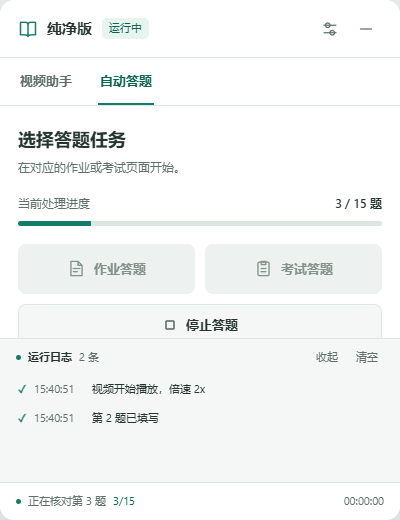
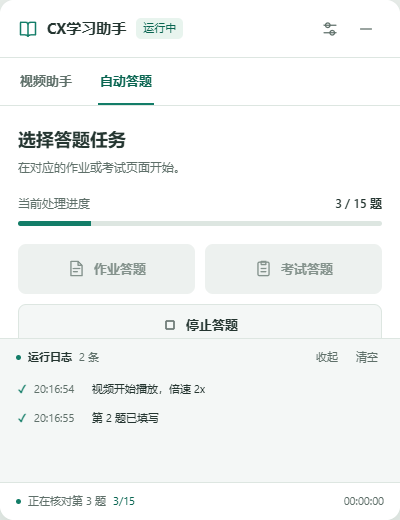
Rename to CX study assistant and harden task action boundaries

Changed region(s): [[0.12, 0.0308, 0.45, 0.0923], [0.09, 0.8, 0.15, 0.8308], [0.09, 0.7385, 0.15, 0.7692]]

diff --git a/chaoxing-pure.user.js b/chaoxing-pure.user.js
@@ -1,7 +1,7 @@
 // ==UserScript==
-// @name         纯净版
+// @name         CX学习助手
 // @namespace    local:chaoxing-deepseek-pure
-// @version      1.0.4
+// @version      1.0.5
 // @updateURL    https://raw.githubusercontent.com/mzxuan08/chaoxing-pure/main/chaoxing-pure.user.js
 // @downloadURL  https://raw.githubusercontent.com/mzxuan08/chaoxing-pure/main/chaoxing-pure.user.js
 // @description  视频助手与 DeepSeek V4.1 Flash 答题；本地个人配置
@@ -40,7 +40,7 @@
 // ==/UserScript==
 
 /*
- * 本地纯净版 1.0.4，2026-10-08。
+ * 本地CX学习助手 1.0.5，2026-10-08。
  * 所有答题请求直接发往 DeepSeek 官方 API，使用用户个人账户。
  * 公开版不包含个人 API 凭据；首次使用请通过脚本管理器菜单配置。
  */
@@ -48,7 +48,7 @@
 (() => {
   'use strict';
 
-  const SCRIPT_VERSION = '1.0.4';
+  const SCRIPT_VERSION = '1.0.5';
 
   const CXUtils = {
     safeJSONParse(value, fallback = null) {
@@ -211,7 +211,7 @@
       const iframe = document.createElement('iframe');
       iframe.id = 'cx-helper-iframe';
       iframe.setAttribute('frameborder', '0');
-      iframe.setAttribute('title', '纯净版助手');
+      iframe.setAttribute('title', 'CX学习助手');
       iframe.setAttribute('allowtransparency', 'true');
       Object.assign(iframe.style, {
         position: 'fixed',
@@ -602,14 +602,14 @@
     _buildHTML() {
       return `<!DOCTYPE html><html lang="zh-CN"><head><meta charset="utf-8"><meta name="viewport" content="width=device-width,initial-scale=1"><style>${this._buildCSS()}</style></head><body>
         <!-- 最小化悬浮图标 -->
-        <div class="cx-mini" id="cx-mini" role="button" tabindex="0" aria-label="恢复纯净版面板">
+        <div class="cx-mini" id="cx-mini" role="button" tabindex="0" aria-label="恢复CX学习助手面板">
           <div class="cx-mini-icon"><svg class="cx-icon" viewBox="0 0 24 24" fill="none" stroke="currentColor" stroke-width="1.7" stroke-linecap="round" stroke-linejoin="round" aria-hidden="true"><path d="M3 4h6a3 3 0 0 1 3 3v14a4 4 0 0 0-4-2H3zM21 4h-6a3 3 0 0 0-3 3v14a4 4 0 0 1 4-2h5z"/></svg></div>
         </div>
         <!-- 主面板 -->
         <div class="cx-panel cx-log-collapsed" id="cx-panel">
           <!-- 标题栏 -->
           <div class="cx-header" id="cx-header">
-            <span class="cx-header-title"><svg class="cx-icon" viewBox="0 0 24 24" fill="none" stroke="currentColor" stroke-width="1.7" stroke-linecap="round" stroke-linejoin="round" aria-hidden="true"><path d="M3 4h6a3 3 0 0 1 3 3v14a4 4 0 0 0-4-2H3zM21 4h-6a3 3 0 0 0-3 3v14a4 4 0 0 1 4-2h5z"/></svg><span>纯净版</span></span><span class="cx-run-badge" id="cx-run-badge">待机</span>
+            <span class="cx-header-title"><svg class="cx-icon" viewBox="0 0 24 24" fill="none" stroke="currentColor" stroke-width="1.7" stroke-linecap="round" stroke-linejoin="round" aria-hidden="true"><path d="M3 4h6a3 3 0 0 1 3 3v14a4 4 0 0 0-4-2H3zM21 4h-6a3 3 0 0 0-3 3v14a4 4 0 0 1 4-2h5z"/></svg><span>CX学习助手</span></span><span class="cx-run-badge" id="cx-run-badge">待机</span>
             <div class="cx-header-tools">
               <button type="button" class="cx-tool-btn" id="cx-btn-settings" title="设置" aria-label="设置"><svg class="cx-icon" viewBox="0 0 24 24" fill="none" stroke="currentColor" stroke-width="1.7" stroke-linecap="round" stroke-linejoin="round" aria-hidden="true"><path d="M4 7h16M4 17h16"/><circle cx="9" cy="7" r="3"/><circle cx="15" cy="17" r="3"/></svg></button>
               <button type="button" class="cx-tool-btn" id="cx-btn-minimize" title="最小化" aria-label="最小化"><svg class="cx-icon" viewBox="0 0 24 24" fill="none" stroke="currentColor" stroke-width="1.7" stroke-linecap="round" stroke-linejoin="round" aria-hidden="true"><path d="M5 12h14"/></svg></button>
@@ -2123,7 +2123,7 @@
       ].join(',');
 
       for (const doc of docs) {
-        if (!doc || doc === UIPanel._doc) continue;
+        if (!doc || doc === UIPanel._doc || !this._isQuizDocVisible(doc)) continue;
         let candidates = [];
         try { candidates = Array.from(doc.querySelectorAll(selectors)); } catch (_) {}
         for (const el of candidates) {
@@ -5462,11 +5462,29 @@
       return null;
     },
 
-    async _confirmSubmitDialogs(doc, canAct = () => true) {
+    _findTaskSubmitButton(doc) {
+      // Explicit final-submit labels outside question rows and confirmation dialogs.
+      const explicit = this._findChapterSubmitButton(doc);
+      if (explicit) return explicit;
+      return Array.from(doc.querySelectorAll('button[type="submit"],input[type="submit"],.completeBtn,.submitBtn,.btnSubmit')).find(button =>
+        this._isQuestionSubmitControl(button) && this._quizControlText(button) === '完成' &&
+        !button.closest('.questionLi,.singleQuesId,.multipleQuesId,.judgementQuesId,.completionQuesId,[role="dialog"],.layui-layer,.modal')) || null;
+    },
+    _submissionDialogSnapshot(doc) {
+      return new Map(this._submissionDialogRoots(doc).map(root => [root, root.textContent || '']));
+    },
+    _isSubmissionConfirmation(root) {
+      if (!this._isVisibleElement(root)) return false;
+      const copy = root.cloneNode(true);
+      for (const control of copy.querySelectorAll('button,a,[role="button"],input,script,style')) control.remove();
+      const text = String(copy.textContent || '').replace(/\s+/g, '');
+      return /确认(?:提交|交卷|保存)|确定(?:提交|交卷|保存)|是否(?:提交|交卷|保存)|(?:提交|交卷|保存).{0,35}[吗？?]|未(?:做完|作答|完成).{0,40}题|(?:提交|交卷|保存)(?:成功|完成)|答案已保存/.test(text);
+    },
+    async _confirmSubmitDialogs(doc, canAct = () => true, options = {}) {
       if (!canAct()) return false;
       doc = doc || document;
       await new Promise(r => setTimeout(r, 500));
-      const docs = CXUtils.listAccessibleDocs(document, 4);
+      const docs = CXUtils.listAccessibleDocs(doc, 4);
       if (!docs.includes(doc)) docs.unshift(doc);
       const patterns = ['确定', '确认', '继续提交', '提交', '保存', '我知道了', '知道了'];
       // 只在弹窗根节点内找确认按钮，不能把页面主内容中的“提交作业”
@@ -5491,12 +5509,13 @@
           }
         }
       }
-      for (const root of this._submissionDialogRoots(doc)) { if (!seenRoots.has(root)) { seenRoots.add(root); roots.push({ doc: root.ownerDocument, root }); } }
+      for (const root of this._submissionDialogRoots(doc)) { if ((docs.includes(root.ownerDocument) || (options.parentBaseline && options.parentBaseline.get(root) !== (root.textContent || ''))) && !seenRoots.has(root)) { seenRoots.add(root); roots.push({ doc: root.ownerDocument, root }); } }
       for (const item of roots) {
-        const btn = this._findClickableByText(item.doc, patterns, item.root);
+        if (!this._isSubmissionConfirmation(item.root)) continue;
+        const btn = this._findExactQuizButton(item.doc, patterns.concat(['确认提交', '确定提交', '确认交卷']), item.root);
         if (btn) {
           try {
-            if (!canAct()) return false;
+            if (!canAct() || !this._isVisibleElement(btn) || !item.root.contains(btn)) return false;
             btn.click();
             Logger.log('已确认提交弹窗', 'info');
             await new Promise(r => setTimeout(r, 600));
@@ -5573,11 +5592,16 @@
       }
       if (submitBtn && !this._isQuestionSubmitControl(submitBtn)) submitBtn = null;
       if (submitBtn) {
+        const labelBefore = this._quizControlText(submitBtn);
+        const questionBefore = AnswerModule._questionFingerprint(container);
+        const parentBaseline = this._submissionDialogSnapshot(doc);
         await new Promise(r => setTimeout(r, 300));
-        if (!canAct()) return false;
+        if (!canAct() || submitBtn.isConnected === false || !container.contains(submitBtn) ||
+            !this._isQuestionSubmitControl(submitBtn) || this._quizControlText(submitBtn) !== labelBefore ||
+            questionBefore !== AnswerModule._questionFingerprint(container)) return false;
         try { submitBtn.click(); } catch (_) { return false; }
         Logger.log('已点击提交/保存按钮', 'info');
-        if (!options.scope) await this._confirmSubmitDialogs(doc, canAct);
+        if (!options.scope) await this._confirmSubmitDialogs(doc, canAct, { parentBaseline });
         return true;
       }
       return false;
@@ -5667,7 +5691,7 @@
       // Result-page evidence is restricted to this quiz document, never another task.
       const completedGrade = this._completedChapterGrade(doc);
       if (completedGrade) signals.set(completedGrade.node, completedGrade.text);
-      for (const d of this._submissionDocs(doc)) {
+      for (const d of [doc]) {
         let nodes = [];
         try { nodes = d.querySelectorAll('[role="status"],[data-submit-status],.submit-success,.work-submit-success,.success,.result,.work-status,.mark_info,.tip,.tips,.message,.msg,.layui-layer-content,.ui-dialog-content,body>p,body>h1,body>h2'); } catch (_) {}
         for (const node of nodes) {
@@ -5685,23 +5709,22 @@
     async _clickFinalSubmit(doc, label = '任务', canAct = () => true, options = {}) {
       if (!canAct()) return false;
       doc = doc || document;
-      const btn = options.scope ? this._findExactQuizButton(doc, this._popupSubmitLabels, options.scope) : options.chapter ? this._findChapterSubmitButton(doc) : this._findClickableByText(doc, [
-        '提交作业', '提交测验', '提交考试', '提交试卷', '提交答案', '提交',
-        '保存并提交', '保存提交', '完成', '交卷'
-      ]) || this._findClickableByText(document, [
-        '提交作业', '提交测验', '提交考试', '提交试卷', '提交答案', '提交',
-        '保存并提交', '保存提交', '完成', '交卷'
-      ]);
+      const findButton = () => options.scope ? this._findExactQuizButton(doc, this._popupSubmitLabels, options.scope) :
+        options.chapter ? this._findChapterSubmitButton(doc) : this._findTaskSubmitButton(doc);
+      const btn = findButton();
+      const labelBefore = this._quizControlText(btn);
+      const parentBaseline = this._submissionDialogSnapshot(doc);
       if (!btn) {
         Logger.log(`${label}未找到最终提交按钮`, 'info');
         return false;
       }
       if (options.chapter) { if (!(await AnswerModule._delay(300, options.run))) return false; }
       else await new Promise(r => setTimeout(r, 500));
-      if (!canAct() || btn.isConnected === false) return false;
+      if (!canAct() || btn.isConnected === false || !this._isVisibleElement(btn) ||
+          this._quizControlText(btn) !== labelBefore || findButton() !== btn) return false;
       try { btn.click(); } catch (_) { return false; }
       Logger.log(`${label}已点击最终提交按钮`, 'success');
-      if (!options.chapter && !options.scope) await this._confirmSubmitDialogs(doc, canAct);
+      if (!options.chapter && !options.scope) await this._confirmSubmitDialogs(doc, options.run ? () => AnswerModule._isRunActive(options.run) : canAct, { parentBaseline });
       return true;
     }
   };
@@ -6101,7 +6124,7 @@
         run.complete = containers.every(el => el.isConnected && this._isQuestionCompleted(el));
         const guard = () => this._canSubmitRun(run) && containers.every(el => el.isConnected && this._isQuestionCompleted(el));
         if (guard()) {
-          const submitted = await Solver._clickFinalSubmit(doc, '作业', guard);
+          const submitted = await Solver._clickFinalSubmit(doc, '作业', guard, { run });
           if (submitted) Logger.log('题目填写完整，已尝试提交作业', 'success');
         } else this._reportIncomplete(run, '作业');
       } catch (_) { run.failed++; this._reportIncomplete(run, '作业'); }
@@ -6130,7 +6153,7 @@
         if (this._isExamPaginated()) await this._processExamPaginated(run);
         else await this._processExamList(run);
         if (this._canSubmitRun(run)) {
-          const submitted = await Solver._clickFinalSubmit(this._findQuizDoc(), '考试/章测', () => this._canSubmitRun(run));
+          const submitted = await Solver._clickFinalSubmit(this._findQuizDoc(), '考试/章测', () => this._canSubmitRun(run), { run });
           if (submitted) Logger.log('题目填写完整，已尝试提交', 'success');
         } else this._reportIncomplete(run, '考试/章测');
       } catch (_) { run.failed++; this._reportIncomplete(run, '考试/章测'); }
@@ -6603,7 +6626,7 @@
       const videoCfg = ConfigStore.getVideoConfig();
       const answerCfg = ConfigStore.getAnswerConfig();
 
-      Logger.log('纯净版 v1.0.4 已加载', 'success');
+      Logger.log('CX学习助手 v1.0.5 已加载', 'success');
 
       // 4. 注入 UI 面板
       UIPanel.init();
@@ -6717,7 +6740,7 @@
       Logger.log(`初始化完成，耗时 ${elapsed}ms`, 'success');
 
     } catch (err) {
-      console.error('[学习通纯净助手] 初始化错误:', err);
+      console.error('[CX学习助手] 初始化错误:', err);
       Logger.log('初始化失败: ' + (err.message || String(err)), 'error');
     }
   }

diff --git a/README.md b/README.md
@@ -1,6 +1,6 @@
-# 纯净版
+# CX学习助手
 
-学习通课程助手用户脚本，当前版本 **1.0.4**（公开发布从 1.0.0 开始编号）。
+学习通课程助手用户脚本，当前版本 **1.0.5**。
 
 [安装脚本](https://raw.githubusercontent.com/mzxuan08/chaoxing-pure/main/chaoxing-pure.user.js) · [下载发布版](https://github.com/mzxuan08/chaoxing-pure/releases)
 
@@ -17,7 +17,7 @@
 
 1. 安装支持用户脚本的浏览器扩展，例如 Tampermonkey。
 2. 打开上方“安装脚本”链接；也可下载 `chaoxing-pure.user.js` 后导入扩展。
-3. 若浏览器已有旧版，请手动覆盖旧脚本并关闭重复脚本。版本号已重新从 1.0.0 开始，旧版不一定会提示升级。
+3. 若已有旧版，请在原脚本编辑器中覆盖并保存，以沿用脚本管理器的本地设置。v1.0.5 起显示名由“纯净版”改为“CX学习助手”；若安装后出现两个条目，请停用旧条目，避免重复运行。
 4. 刷新学习通页面。
 
 ## 配置 API Key
@@ -70,6 +70,12 @@ v1.0.3 将 AI 返回并填写完成后的额外答题间隔从 2–2.5 秒缩短
 ## 视频弹题
 
 v1.0.4 修复普通提示框被当作视频题目、共享按钮样式导致误点“下一节”的问题。弹题识别需有可见的题目和作答控件，提交与继续按钮限定在当前弹题内，不会借用课程页面的按钮或确认其他弹窗。当前视频未完成且弹题没有可用操作时，保留本节等待重查。
+
+## 操作边界检查
+
+v1.0.5 继续收紧通用提交和确认：拒绝“取消提交、去完成”等相似文字，点击前复核按钮含义和可见性，不借用其他任务的最终提交按钮。父页面专属确认只处理本次提交后新出现或发生变化的弹窗；题目提交后被替换仍可完成确认，停止操作会取消后续动作。章节测验的成功结果只从当前任务读取，导航不使用隐藏框架中的旧按钮。
+
+改名保留原有设置项和存储键。仓库及安装链接保持原路径，便于已有安装沿用更新地址。
 
 ## 说明
 
